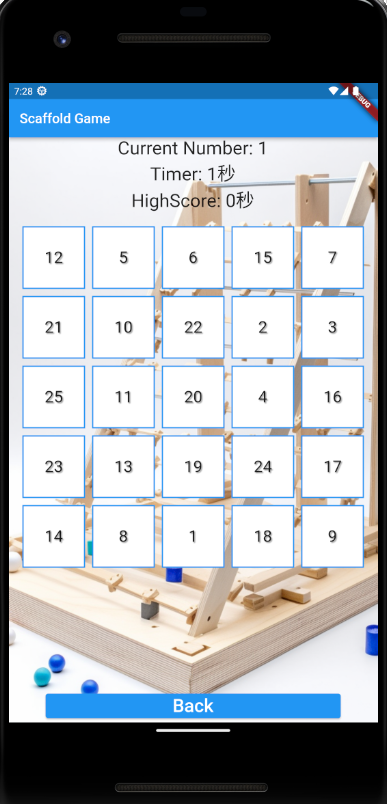
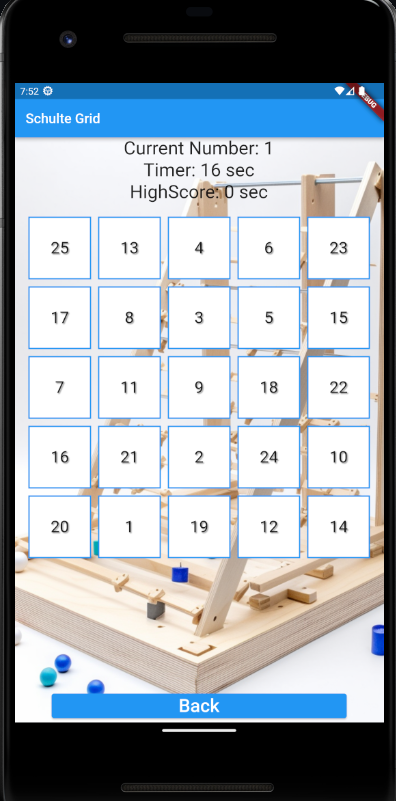
retake the screenshot

diff --git a/lib/main.dart b/lib/main.dart
@@ -104,7 +104,7 @@ class GameSelectPage extends StatelessWidget {
                     MaterialPageRoute(builder: (context) => const SchulteGridApp()),
                   );
                 },
-                child: const Text('Scaffold'),
+                child: const Text('Schulte Grid'),
               ),
               SizedBox(
                 height: MediaQuery.of(context).size.height * 0.05, // Or any value you want to give
@@ -763,7 +763,7 @@ class _SchulteGridState extends State<SchulteGrid> {
 
     return Scaffold(
       appBar: AppBar(
-        title: const Text('Scaffold Game'),
+        title: const Text('Schulte Grid'),
       ),
       body: Container(
         decoration: const BoxDecoration(
@@ -779,11 +779,11 @@ class _SchulteGridState extends State<SchulteGrid> {
               style: TextStyle(fontSize: fontSize),
             ),
             Text(
-              'Timer: ${stopwatch.elapsed.inSeconds}秒',
+              'Timer: ${stopwatch.elapsed.inSeconds} sec',
               style: TextStyle(fontSize: fontSize),
             ),
             Text(
-              'HighScore: $highScore秒',
+              'HighScore: $highScore sec',
               style: TextStyle(fontSize: fontSize),
             ),
             Expanded(
